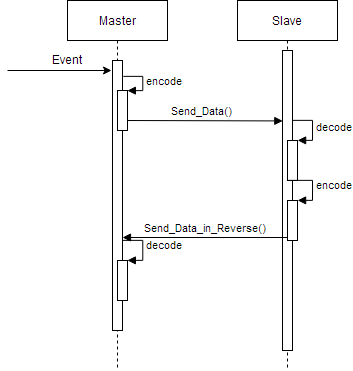
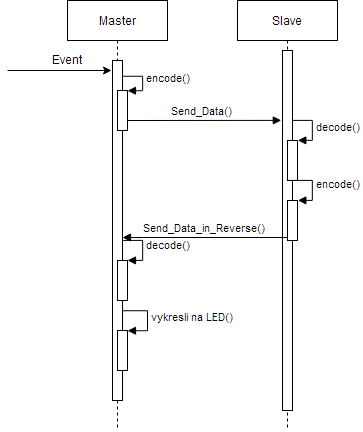
Doc

Changed region(s): [[0.1246, 0.0, 0.9972, 1.0]]

diff --git a/Dokumentacia/Dokumentácia/Dokumentácia.tex b/Dokumentacia/Dokumentácia/Dokumentácia.tex
@@ -1572,7 +1572,7 @@ Po zapnutí napájania sa vykoná jednoduchý Power on Self test, ktorý otestuj
 
 \begin{figure*}[h]
 	\centering
-	\includegraphics[scale=0.4]{n_konvergencia.png}
+	\includegraphics[scale=0.3]{n_konvergencia.png}
 	\caption{Reakcia koncového uzla na udalosť.}
 	\label{f:n_konvergenica}
 \end{figure*}
@@ -1618,14 +1618,14 @@ Zišlo by sa zamyslieť nad implementáciou bezpečnostých mechanizmov na zákl
 
 \begin{figure*}[h]
 	\centering
-	\includegraphics[scale=0.4]{n_konvergencia.png}
+	\includegraphics[scale=0.3]{n_konvergencia.png}
 	\caption{Správanie sa koncového uzla po zapnutí napájania.}
 	\label{f:o_konvergencia}
 \end{figure*}
 
 \begin{figure*}[h]
 	\centering
-	\includegraphics[scale=0.4]{n_event.png}
+	\includegraphics[scale=0.3]{n_event.png}
 	\caption{Reakcia koncového uzla na udalosť.}
 	\label{f:o_event}
 \end{figure*}
@@ -1724,20 +1724,18 @@ Programovanie a real-time debugovanie prebieha pomocou programátora v obvode od
 Pre programovanie vývojového kitu sme nainštalovali SDK určené pre radu zariadení nRF51 a nRF52 \footnote{\url{https://www.nordicsemi.com/eng/Products/Bluetooth-low-energy/nRF5-SDK}}.
 
 \section{Bezdrôtová komunikácia}
-broadcast
- 
-obrazok response
+Komunikácia medzi zariadeniami je realizovaná prostredníctvom broadcastov. 
+ANT protokol komunikuje vo vyhradených časových intervaloch. Takisto umožnuje obojsmernú komunikáciu. Komunikácia smerom naspäť od Slave zariadenia k Mastrovi, je možná iba vo vyhradenom krátkom časovom úseku. Pokiaľ výpočet nezbehne počas krátkeho časového úseku, je nutné dáta poslať v niektorých daľších časových úsekoch.
 
-	sekvencny diagram
+Naimplementovaná komunikácia medzi Mastrom a Slavom prebieha v princípe ako na obr. \ref{f:mssequence}. Keď Master detekuje zmenu na pripojných tlačidlách, tieto dáta zakóduje príslušným nakonfigurovaným zabezpečením \ref{bootloader}. Dáta pošle Slave zariadeniu. Ten ich dekóduje, znova zakóduje a pošle naspäť vo vyhradenom časovom okne Mastrovi. Master prijaté dáta dekóduje a pošle na ich na LED diódy.
 
-	vyvojovy diagram
-segmenter
+ANT protokol podporuje v jednom pakete maximálne 8 bajtov používateľských dát. O posielanie správ väčších ako 8 bajtov sa v projekte starajú funkcie obsiahnuté v súbore Segmenter.c. Na posielanie týchto správ sa nevyužíva Burst mód.
 
 	\begin{figure*}[h]
 		\centering
 		\includegraphics[scale=0.37]{reverse.jpg}
 		\caption{Obojsmerná komunikácia po ANT protokole \cite{ANT}.}
-		\label{f:mssequence}
+		\label{f:reverse_send}
 	\end{figure*}
 
 
@@ -1749,27 +1747,61 @@ segmenter
 	\end{figure*}
 
 \subsection{Master}
-funkcie
-iso7816 uart gpio port0
-leds
-buttons
+	Komunikácia je iniciovaná zariadením, ktoré je nakonfigurované ako Master.
+	V periodických časových intervaloch posiela pomocou broadcastov dáta po ANT komunikačnom protokole.
+	
+	Master je pripojený nRFGo MotherBoard doske a je pripojený k LED diódam a tlačidlám. 
+	Pripojenie periférií je nasledovné:
+	\begin{itemize}
+		\item LED diódy sú pripojené na porte porte P1,
+		\item tlačidlá sú pripojené na porte P2,
+		\item ISO7816 signál CLK je pripojený na P0.5,
+		\item ISO7816 signál RST je pripojený na P0.4,
+		\item ISO7816 signál VCC je pripojený na P0.6,
+		\item ISO7816 signál TX je pripojený na P0.3,
+		\item ISO7816 signál RX je pripojený na P0.2.
+	\end{itemize}
+
+	Master zariadenie umožňuje nakonfigurovať zabezpečenie komunikačného kanála pomocou bootloadera a spustenie automatického testu. 
+	Master reaguje na zmenu na tlačidlách a túto zmenu posiela Slave zariadeniu. 
+	Dáta prijaté od Slave zariadenie dekóduje a zobrazuje na LED diódach.
 
 \subsection{Slave}
-funkcie
-
+	Slave zariadenie prijíma dáta Master zariadenia. Tieto dáta dekóduje, znovu zakóduje príslušným spôsobom a pošle naspäť Master zariadeniu.
+	
+	
+	Pripojenie periférií je rovnaké ako pri Master zariadení:
+	\begin{itemize}
+		\item ISO7816 signál CLK je pripojený na P0.5,
+		\item ISO7816 signál RST je pripojený na P0.4,
+		\item ISO7816 signál VCC je pripojený na P0.6,
+		\item ISO7816 signál TX je pripojený na P0.3,
+		\item ISO7816 signál RX je pripojený na P0.2.
+	\end{itemize}
 
 \section{SW AES}
 PSK
 Vector
 
 \section{Bootloader}
+	\label{bootloader}
+	Pri podržaní ktorého-koľvek tlačidla ihneď po zapnutí, je možné na Master zariadení, ktorý je osadený na vývojovej doske nRF6310 (nRF Go MotherBoard), nakonfigurovať zabezpečenie bezdrôtového komunikačného kanála. Následne umožňuje zapnutie automatického testu a prejdenie do testovacieho módu na odladenie komunikácie cez štandard ISO7816.
+Pre namapovanie týchto funkcií na príslušné tlačidlá viď. \ref{f:o_bootloader}.
+	
+	Slave zariadenie na sieti sa automaticky prispôsobí nastavenému typu zabezpečenia komunikačného protokolu.
+\begin{figure*}[!htb]
+	\centering
+	\includegraphics[scale=0.2]{bootloader.png}
+	\caption{Konfigurácia nastavení po zapnutí\cite{nrfug}.}
+	\label{f:o_bootloader}
+\end{figure*}
 
 \section{Štandard ISO7816}
 
 	\begin{figure*}[h]
 		\centering
 		\includegraphics[scale=0.2]{apdu.jpg}
-		\caption{Standardny format APDU spravy podla standardu ISO7816\cite{smartcard}.}
+		\caption{Štandardný format APDU správy podľa štandardu ISO7816\cite{smartcard}.}
 		\label{f:apdu}
 	\end{figure*}
 	
@@ -1788,6 +1820,14 @@ Vector
 		\label{f:atr}
 	\end{figure*}
 
+
+	
+	\begin{figure*}[h]
+		\centering
+		\includegraphics[scale=1.2]{ISOUART.png}
+		\caption{Pripojenie pinov RX a TX (UART) k pinu I/O (ISO7816).}
+		\label{f:isouart}
+	\end{figure*}
 generovanie aktivacnych sekvecnii cold reset
 deaktivacia
 UART
@@ -2066,7 +2106,7 @@ Priložené elektronické médium má nasledovný obsah a štruktúru:
 \section{Skompilovanie appletu} \label{s_applet_compile}
 
 	\begin{enumerate}
-		\item Rozbaľte JC2.2.2 development kit.
+		\item Rozbaľte JCDK 2.2.2 development kit.
 		\item Nainštalujte Eclipse 3.5 (Galileo)
 		\item Nainštalujte JRE verziu 1.6.0
 		\item Nainštalujte plugin JCDE do Eclipse 3.5
